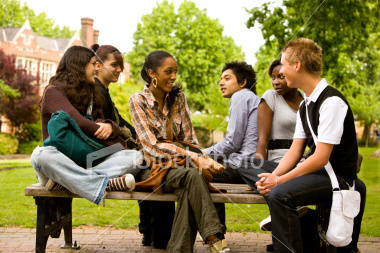
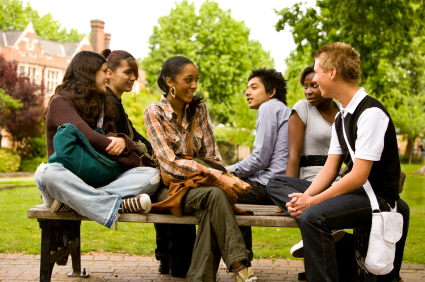
Replacing stock photo

diff --git a/core/static/css/homepage.css b/core/static/css/homepage.css
@@ -42,7 +42,9 @@
 
 .main-image {
   float: left;
-  margin-left: 10px; }
+  margin-left: 10px;
+  width: 370px;
+  margin-top: 8px; }
 
 .right-column {
   float: right;

diff --git a/core/static/css/homepage.scss b/core/static/css/homepage.scss
@@ -65,6 +65,8 @@ $blue: #045cbe;
 .main-image {
     float: left;
     margin-left: 10px;
+    width: 370px;
+    margin-top: 8px;
 }
 
 .right-column {
